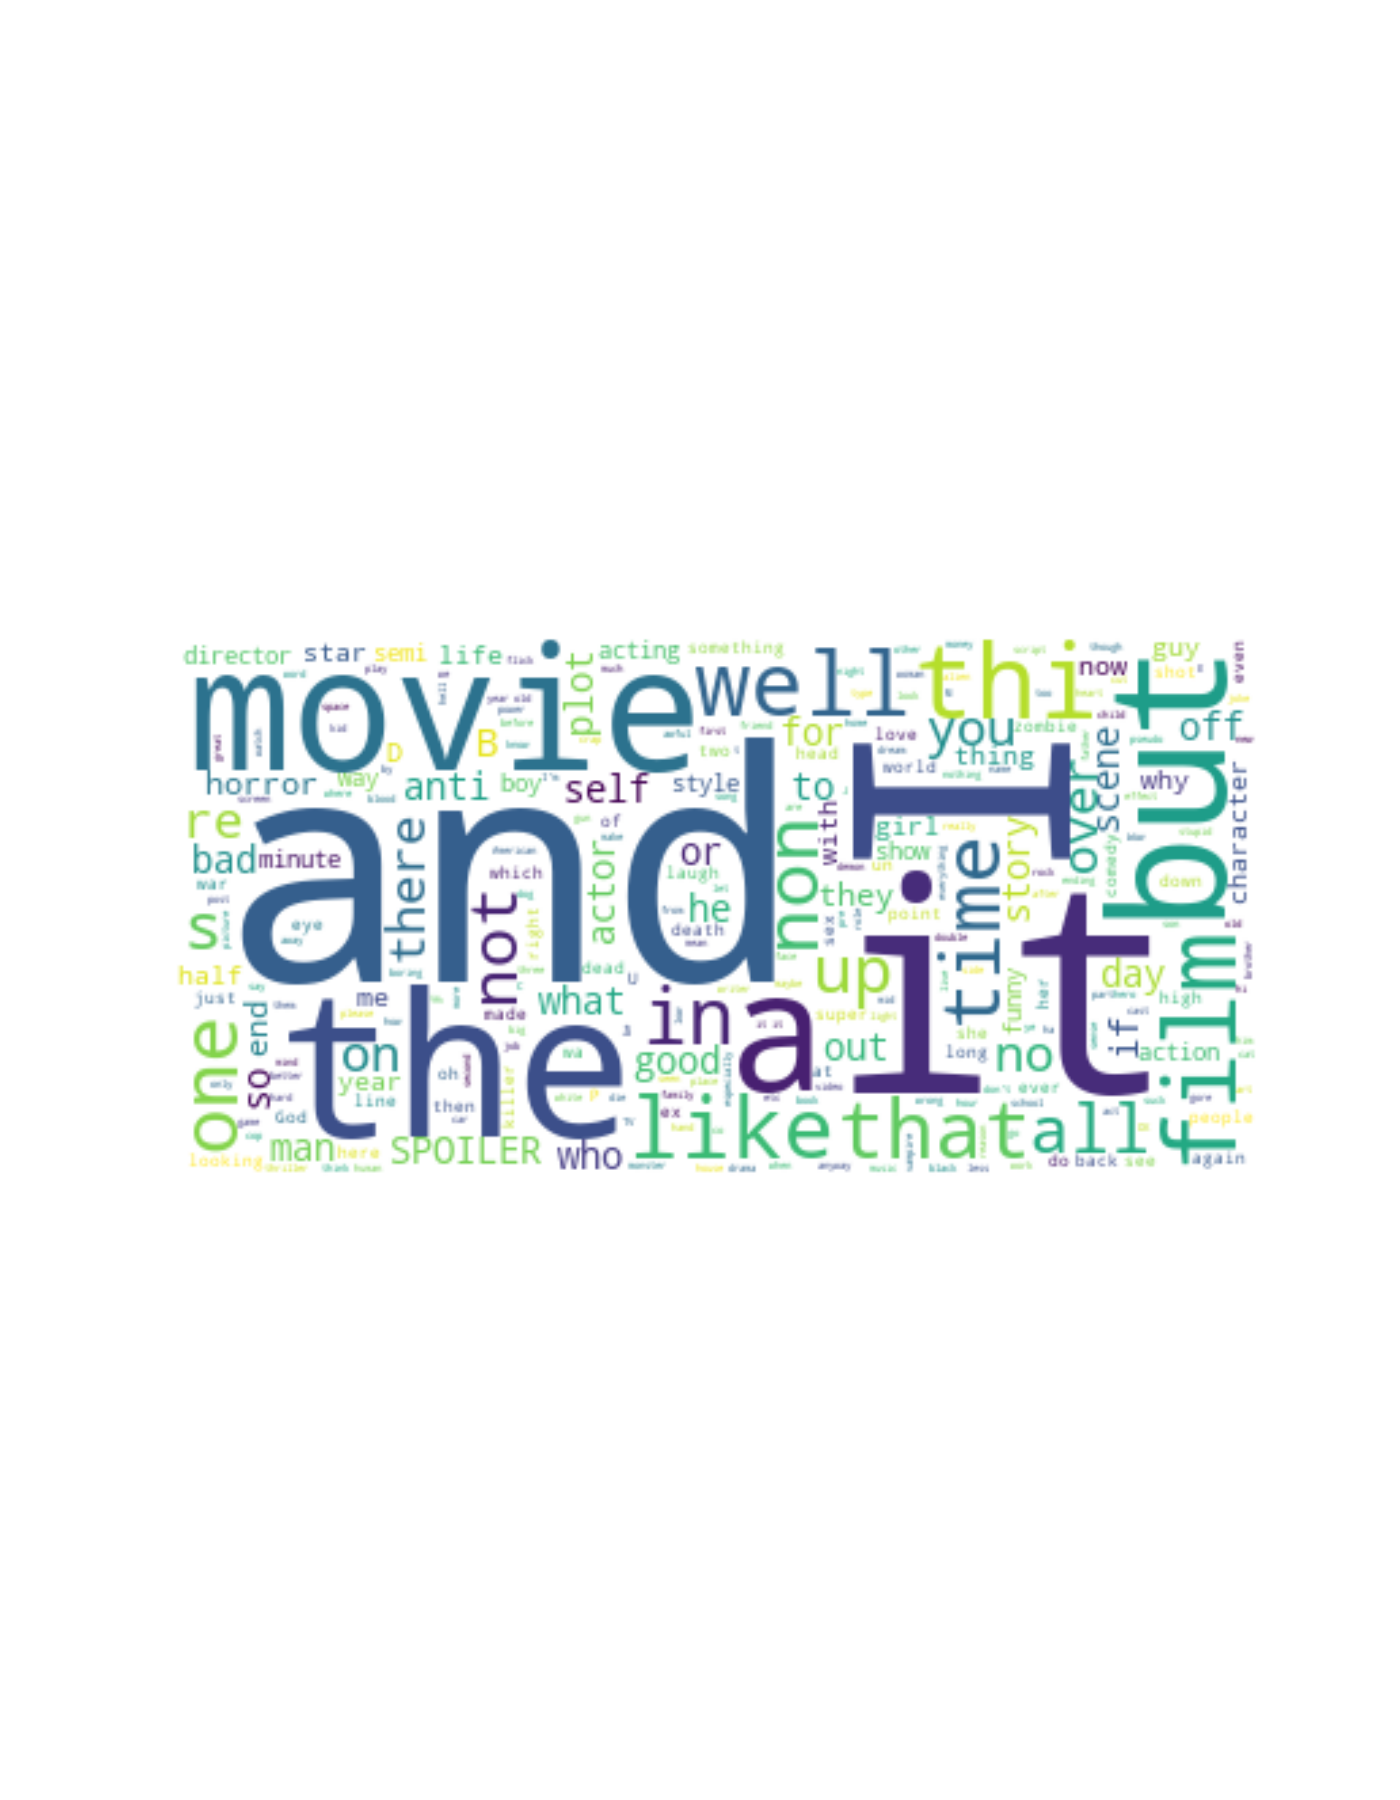
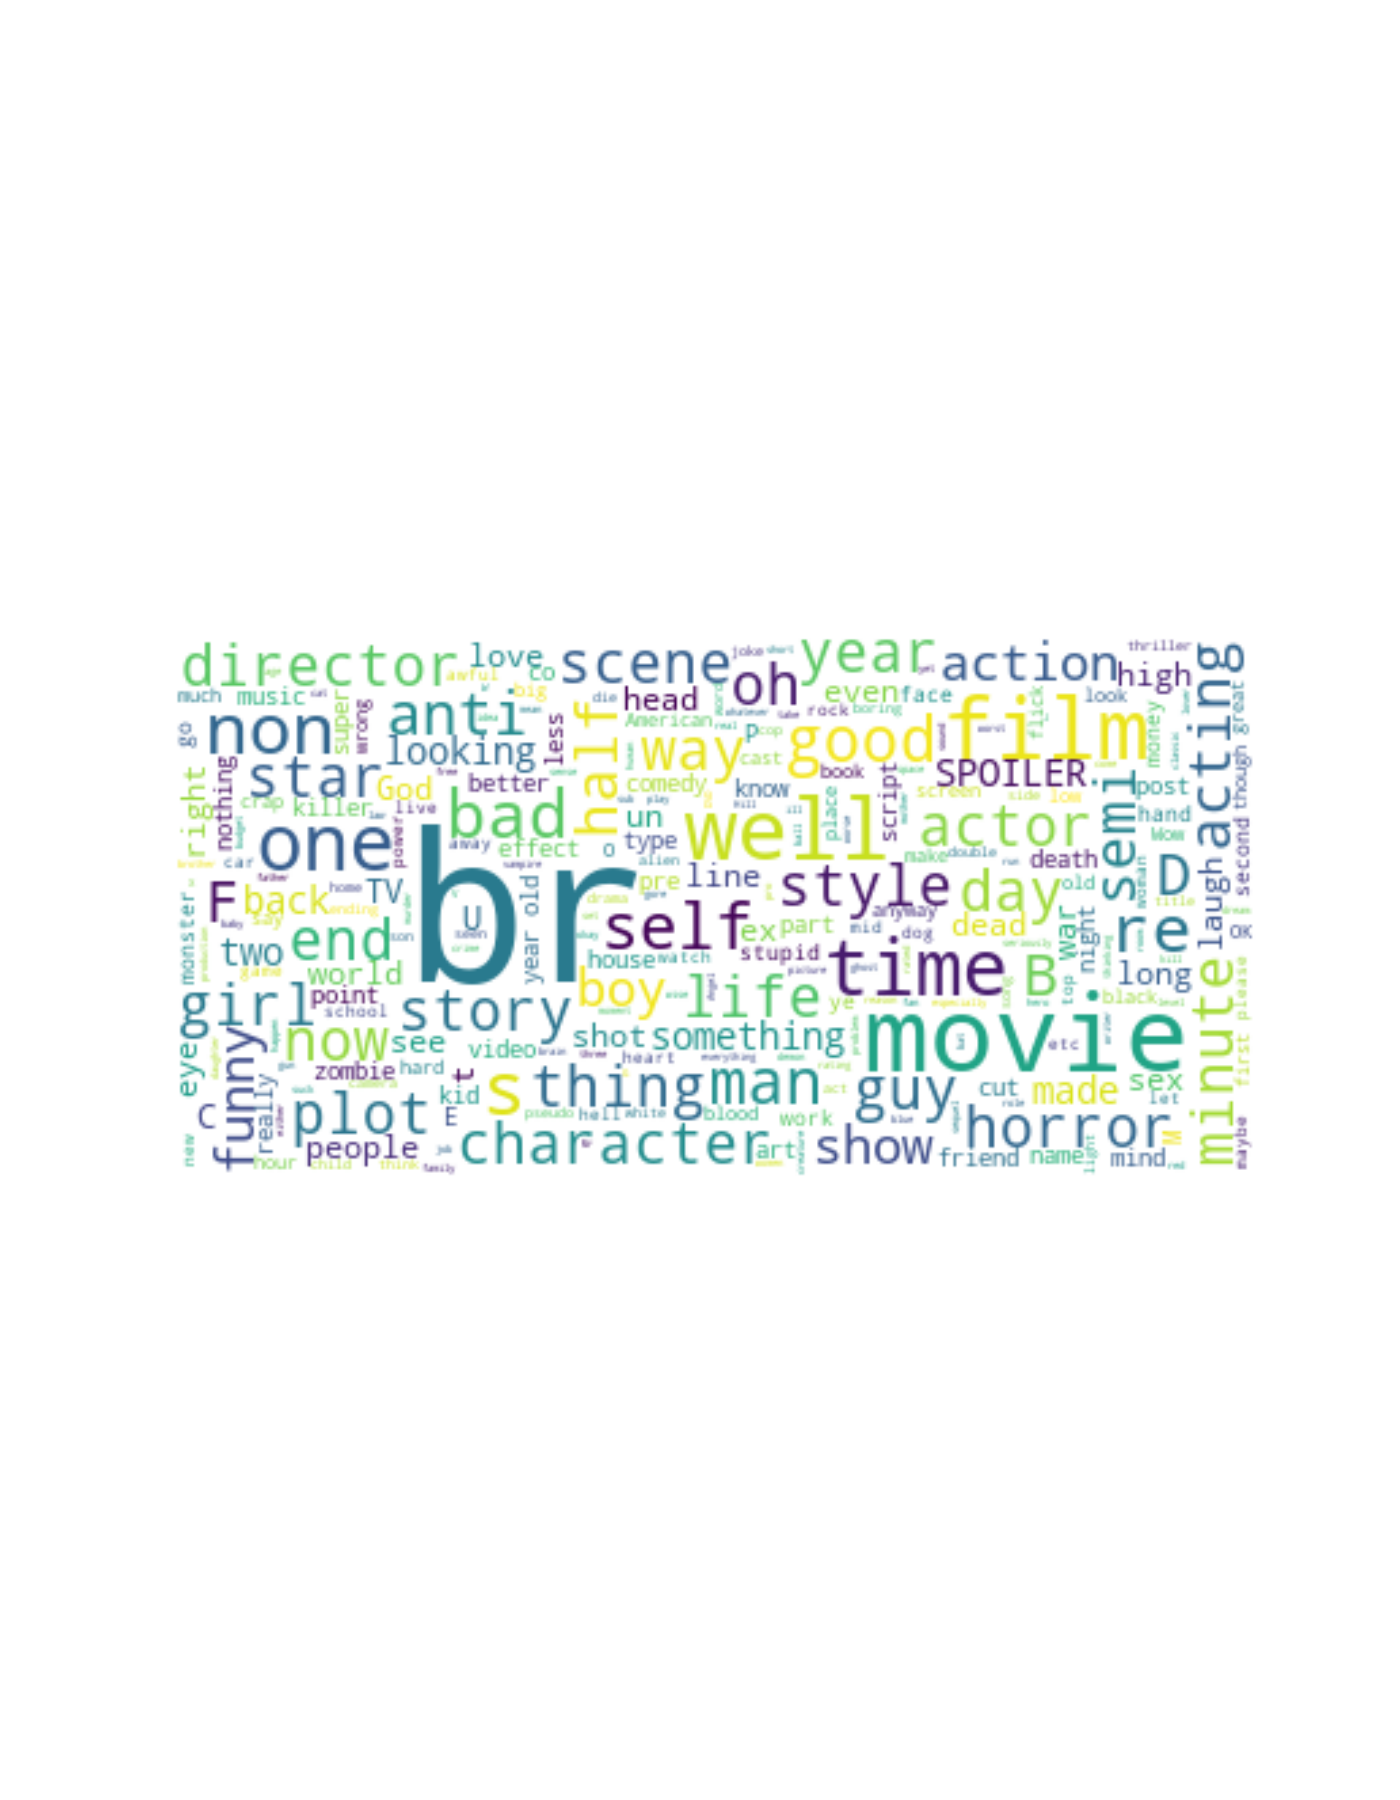
almost done

Changed region(s): [[0.1229, 0.3422, 0.8907, 0.6533]]

diff --git a/ass2/Q2/Qb/qb.py b/ass2/Q2/Qb/qb.py
@@ -70,8 +70,9 @@ C = 1.0
 gamma = 0.001
 
 def gaussian_rbf(X,Y):
+    X = np.ravel(X)
     global gamma
-    return np.exp(-gamma*(np.linalg.norm(X-Y, axis=1)**2))
+    return np.exp(-gamma*(np.linalg.norm(Y-X, axis=1)**2))
 
 X_norm = np.sum(arrX ** 2, axis = -1)
 K = np.exp(-gamma * (X_norm[:,None] + X_norm[None,:] - 2 * np.dot(arrX, arrX.T)))
@@ -104,17 +105,17 @@ print("Fraction of support vectors : " + str(num_sv/m))
 y_predict = np.zeros((m,1))
 testy_predict = np.zeros((test_m,1))
 
-for i in range(m):
-    y_predict[i] = np.sum(_lambda*sv_y*gaussian_rbf(np.tile(arrX[i],(num_sv,1)),sv_x).reshape((num_sv,1)))
-    if i<test_m:
-        testy_predict[i] = np.sum(_lambda*sv_y*gaussian_rbf(np.tile(test_arrX[i],(num_sv,1)),sv_x).reshape((num_sv,1)))
+mul = _lambda*sv_y
 
-#y_predict = np.sum(_lambda*sv_y*gaussian_rbf(np.tile(arrX,(num_sv,1)),sv_x).reshape((num_sv,1)),axis=0).reshape((num_sv,1))
+for i in range(m):
+    y_predict[i] = np.sum(mul*gaussian_rbf(arrX[i],sv_x).reshape((num_sv,1)))
+    if i<test_m:
+        testy_predict[i] = np.sum(mul*gaussian_rbf(test_arrX[i],sv_x).reshape((num_sv,1)))
 
 b = np.sum(arrY-y_predict)
 b/=len(arrX)
 
-#y_predict = np.sum(_lambda*sv_y*gaussian_rbf(np.tile(test_arrX,(num_sv,1)),sv_x).reshape((num_sv,1)),axis=0).reshape((num_sv,1))
+#testy_predict = np.sum(mul*gaussian_rbf(test_arrX,sv_x).reshape((num_sv,1)),axis=0).reshape((num_sv,1))
 
 w = testy_predict + b
 
@@ -125,16 +126,16 @@ score = (np.sum(results==test_arrY))/len(results)
 print('accuracy of test data : ' + str(score))
 
 _lambda = _wts_sv
+
+indices = np.arange(m).reshape((m,1))
+_lambda = np.append(_lambda,indices,axis=1)
 _lambda.sort()
 
-array_images_top5 = np.append(_lambda,arrX,axis=1)
-array_images_top5.sort()
-array_images_top5 = array_images_top5[-5:]
-array_images_top5 = np.delete(array_images_top5,0,1)
+array_images_top5 = _lambda[-5:]
 
 for i in range(len(array_images_top5)):
-    array_image = array_images_top5[i]
-    array_image*=255.0
-    array_image = array_image.reshape((32,32,3)).astype('uint8')
-    plt.imsave('Image_gaussian_' + str(i)+ '.png',array_image)
-    plt.imshow(array_image, interpolation='nearest')
+    array_image = array_images_top5[i][1]
+    img = arrX[int(array_image)]
+    img*=255.0
+    img = img.reshape((32,32,3)).astype('uint8')
+    plt.imsave('Image_gaussian_' + str(i)+ '.png',img)

diff --git a/ass2/Q1/Qa/qa.py b/ass2/Q1/Qa/qa.py
@@ -29,26 +29,26 @@ cnt_wrds_pos = 0
 cnt_wrds_neg = 0
 cnt_wrds = 0
 
-for (dirpath, dirnames, filenames) in os.walk(os.path.join(train_path,'/pos')):
+for (dirpath, dirnames, filenames) in os.walk(train_path + '/pos/'):
     for filename in filenames:
         cnt_pos +=1
-        my_files_pos.append(os.path.join(train_path,'/pos/',filename))
+        my_files_pos.append(train_path + '/pos/' + filename)
     break
 
-for (dirpath, dirnames, filenames) in os.walk(os.path.join(test_path,'/pos')):
+for (dirpath, dirnames, filenames) in os.walk(test_path + '/pos/'):
     for filename in filenames:
-        test_pos.append(os.path.join(test_path,'/pos/' ,filename))
+        test_pos.append(test_path+'/pos/' +filename)
     break
 
-for (dirpath, dirnames, filenames) in os.walk(os.path.join(train_path,'/neg')):
+for (dirpath, dirnames, filenames) in os.walk(train_path+'/neg/'):
     for filename in filenames:
         cnt_neg+=1
-        my_files_neg.append(os.path.join(train_path,'/neg/',filename))
+        my_files_neg.append(train_path+'/neg/'+filename)
     break
 
-for (dirpath, dirnames, filenames) in os.walk(os.path.join(test_path, '/neg')):
+for (dirpath, dirnames, filenames) in os.walk(test_path+'/neg/'):
     for filename in filenames:
-        test_neg.append(os.path.join(test_path,'/neg/' ,filename))
+        test_neg.append(test_path+'/neg/' +filename)
     break
 
 pos_prob = cnt_pos/(cnt_pos+cnt_neg)
@@ -100,13 +100,10 @@ for item0 in cnt_neg_lis:
     for c in str(cnt_neg_lis[item0]):
         output_neg += item0 + ' '
 
-stopwords = set()
-stopwords.add('br')
-
 wc_pos = WordCloud(
     background_color='white',
     max_words=2000,
-    stopwords=stopwords
+    stopwords=None
 )
 
 wc_pos.generate(output_pos)
@@ -122,7 +119,7 @@ fig.savefig('pos_wc.png')
 wc_neg = WordCloud(
     background_color='white',
     max_words=2000,
-    stopwords=stopwords
+    stopwords=None
 )
 
 wc_neg.generate(output_neg)

diff --git a/ass2/Q2/Qa/qa.py b/ass2/Q2/Qa/qa.py
@@ -92,25 +92,18 @@ b = np.mean(arrY[M] - arrX[M, :].dot(w))
 results = np.sign(test_arrX.dot(w) +b)
 results[results == 0] = 1
 
-accu = 0
-for i in range(len(results)):
-    if results[i]==test_arrY[i]:
-        accu += 1
-
-score = accu/len(results)
+score = (np.sum(results==test_arrY))/len(results)
 print('accuracy of test data : ' + str(score))
 
+indices = np.arange(m).reshape((m,1))
+_lambda = np.append(_lambda,indices,axis=1)
 _lambda.sort()
 
-array_images_top5 = np.append(_lambda,arrX,axis=1)
-array_images_top5.sort()
-array_images_top5 = array_images_top5[-5:]
-array_images_top5 = np.delete(array_images_top5,0,1)
+array_images_top5 = _lambda[-5:]
 
 for i in range(len(array_images_top5)):
-    array_image = array_images_top5[i]
-    
-    array_image = array_image.reshape((32,32,3))
-    
-    plt.imsave('Image_linear_' + str(i)+ '.png',array_image)
-    plt.imshow(array_image, interpolation='nearest')
+    array_image = array_images_top5[i][1]
+    img = arrX[int(array_image)]
+    img*=255.0
+    img = img.reshape((32,32,3)).astype('uint8')
+    plt.imsave('Image_linear_' + str(i)+ '.png',img)

diff --git a/ass2/checker.py b/ass2/checker.py
@@ -1,0 +1,30 @@
+import subprocess
+import os
+
+parts_list = [['a', 'b', 'c', 'd', 'e'], ['a', 'b', 'c'], ['a', 'b', 'c', 'd']]
+
+folders = os.listdir()
+for i in range(1,4):
+	print(f'\nChecking Q{i}')
+	if f'Q{i}' not in folders:
+		print(f'No Q{i} found')
+		continue
+	os.chdir(f'./Q{i}')
+	
+	sub_folders = os.listdir()
+	for x in parts_list[i-1]:
+		print(f'Checking Q{i}/({x})')
+		if f'Q{x}' not in sub_folders:
+			print(f'No Q{x} folder found')
+			continue
+		os.chdir(f'./Q{x}')
+
+		files = os.listdir()
+		if f'q{x}.py' in files:
+			train = f'../data/Q{i}/train'
+			test = f'../data/Q{i}/test'
+			subprocess.run(['python',f'q{x}.py',train, test])
+		else:
+			print(f'No q{x}.py found in folder Q{i}/Q{x}')
+		os.chdir('../')
+	os.chdir('../')

diff --git a/ass2/Q3/Qd/qd.py b/ass2/Q3/Qd/qd.py
@@ -66,7 +66,8 @@ test_accu = [0 for _ in range(5)]
 iter = 0
 for C in C_values:
     i=0
-    maxi = -10
+    maxi = -10.0
+    avg_val = 0.0
     trained = None
     while(i<length*5):
         valX = arrX[i:i+length]
@@ -80,13 +81,13 @@ for C in C_values:
         accu = np.sum(yhat == valY)
         accu/= len(valY)
 
+        avg_val += accu
         if accu>maxi:
             maxi = accu
             trained = model
         i+=length
     
-
-    val_accu[iter] = maxi
+    val_accu[iter] = avg_val/5
     yhat = trained.predict(test_arrX)
     accu = np.sum(yhat == test_arrY)
     accu /= len(test_arrY)

diff --git a/ass2/Q2/Qa/try.py b/ass2/Q2/Qa/try.py
@@ -54,3 +54,6 @@ print(gaussian_rbf(x,y))
 x=np.array([10,1,3])
 y=np.tile(x,(5,1))
 print(y)
+
+x=np.round(4.5)
+print(x)
